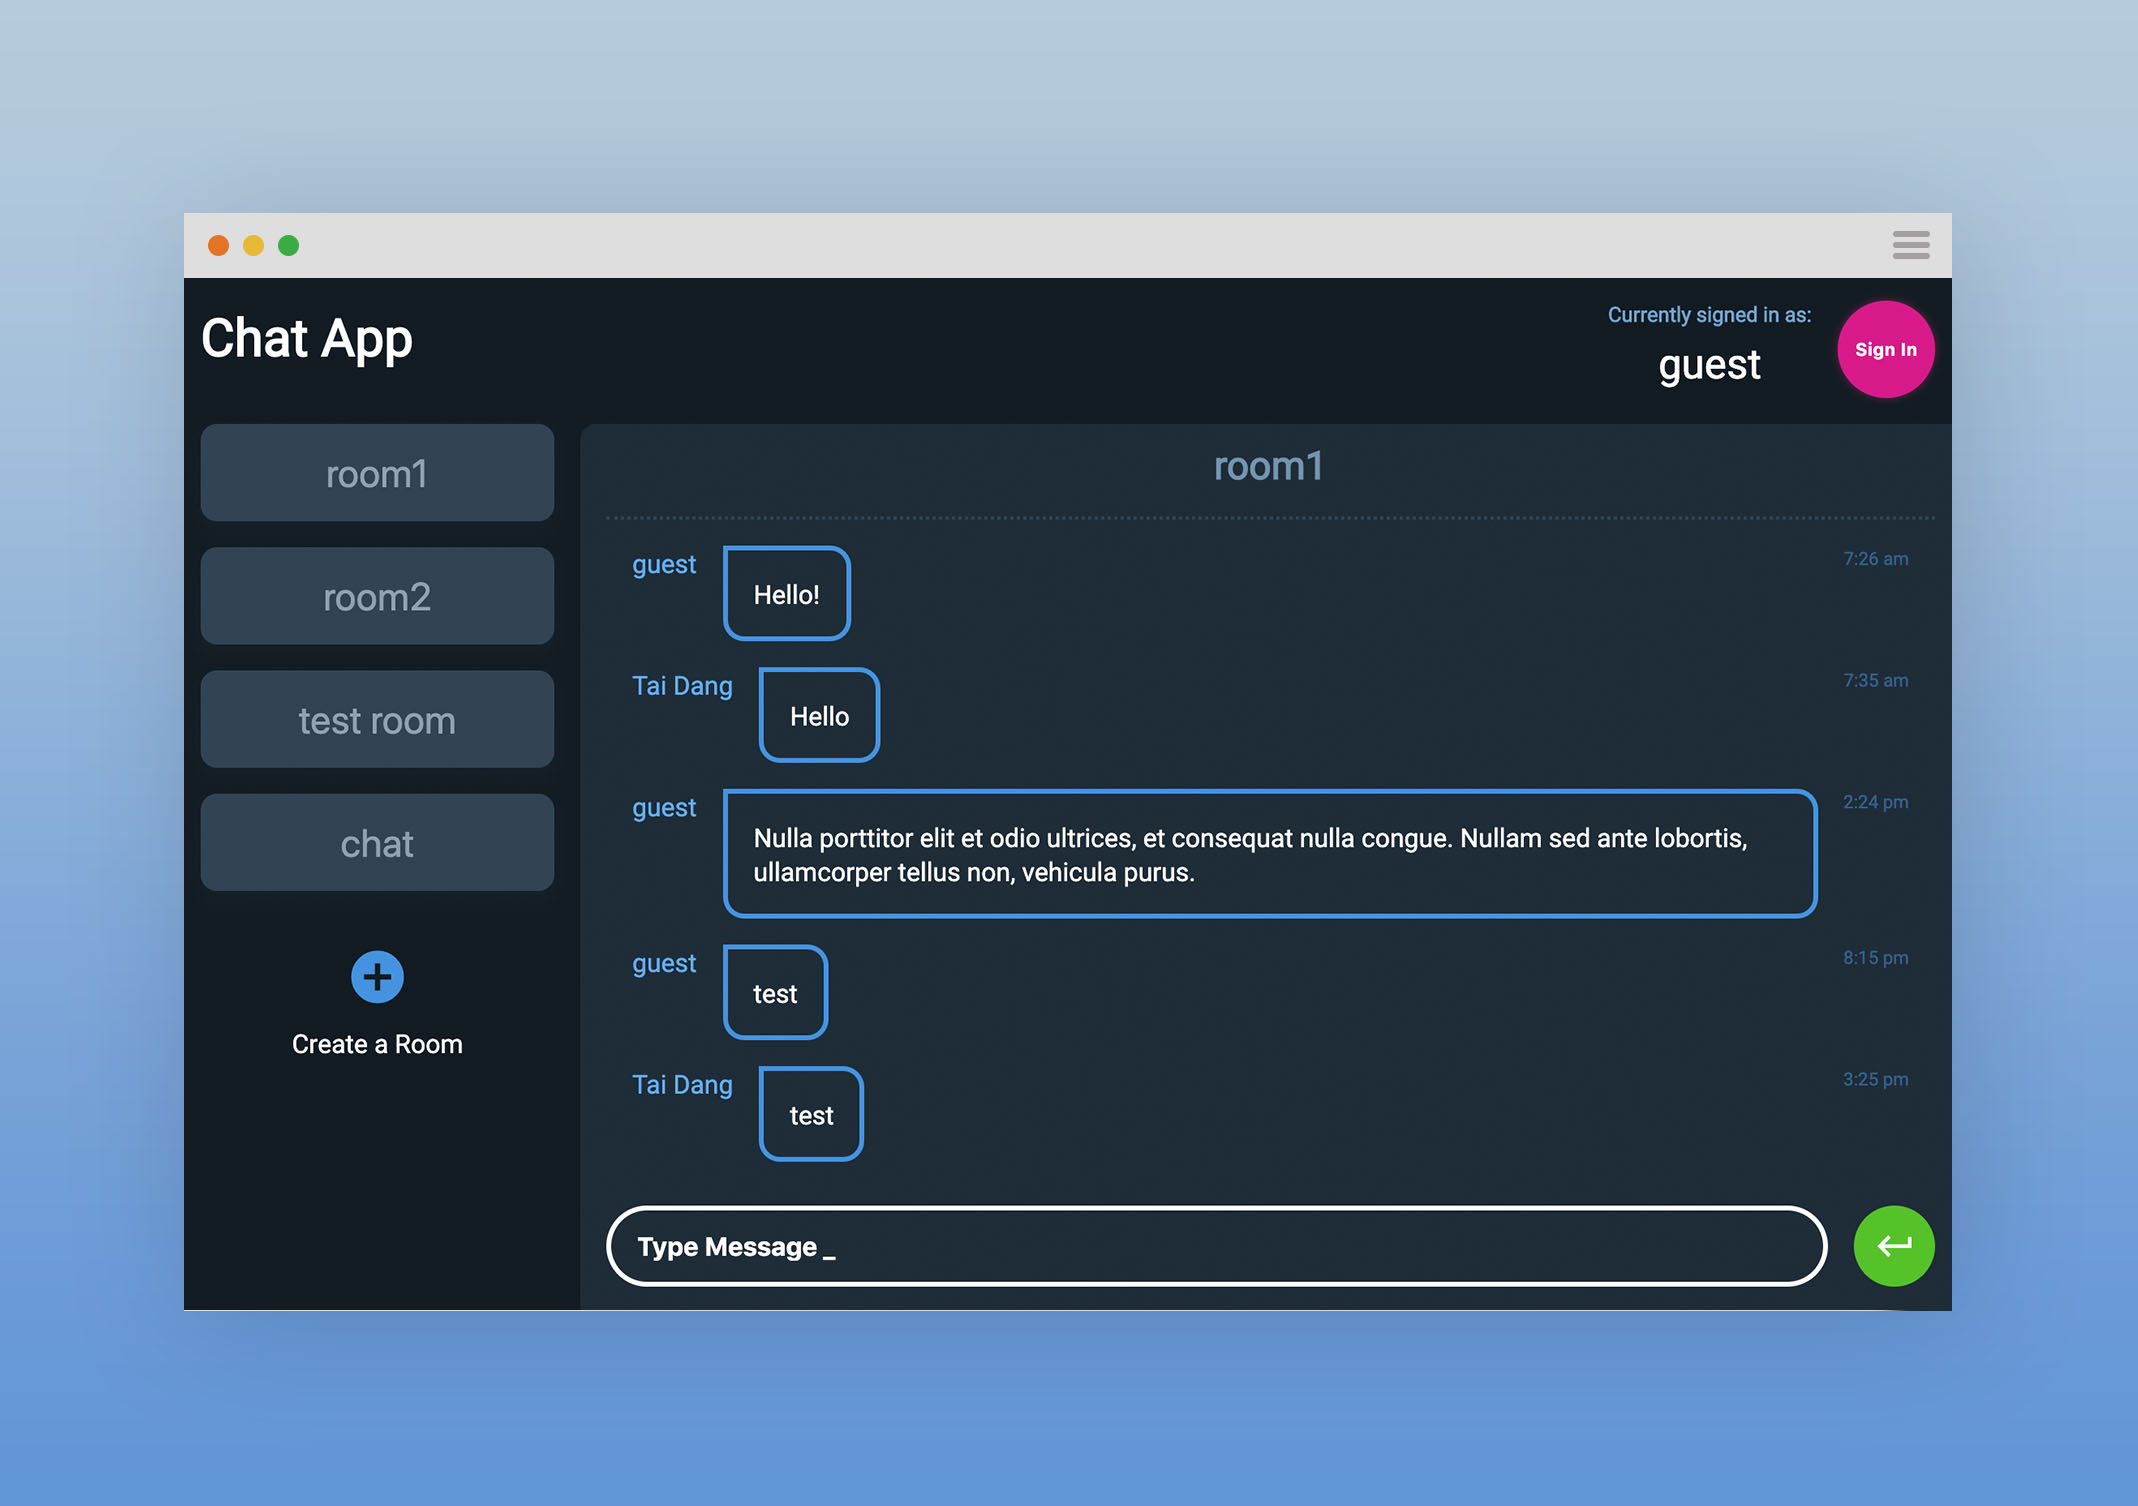
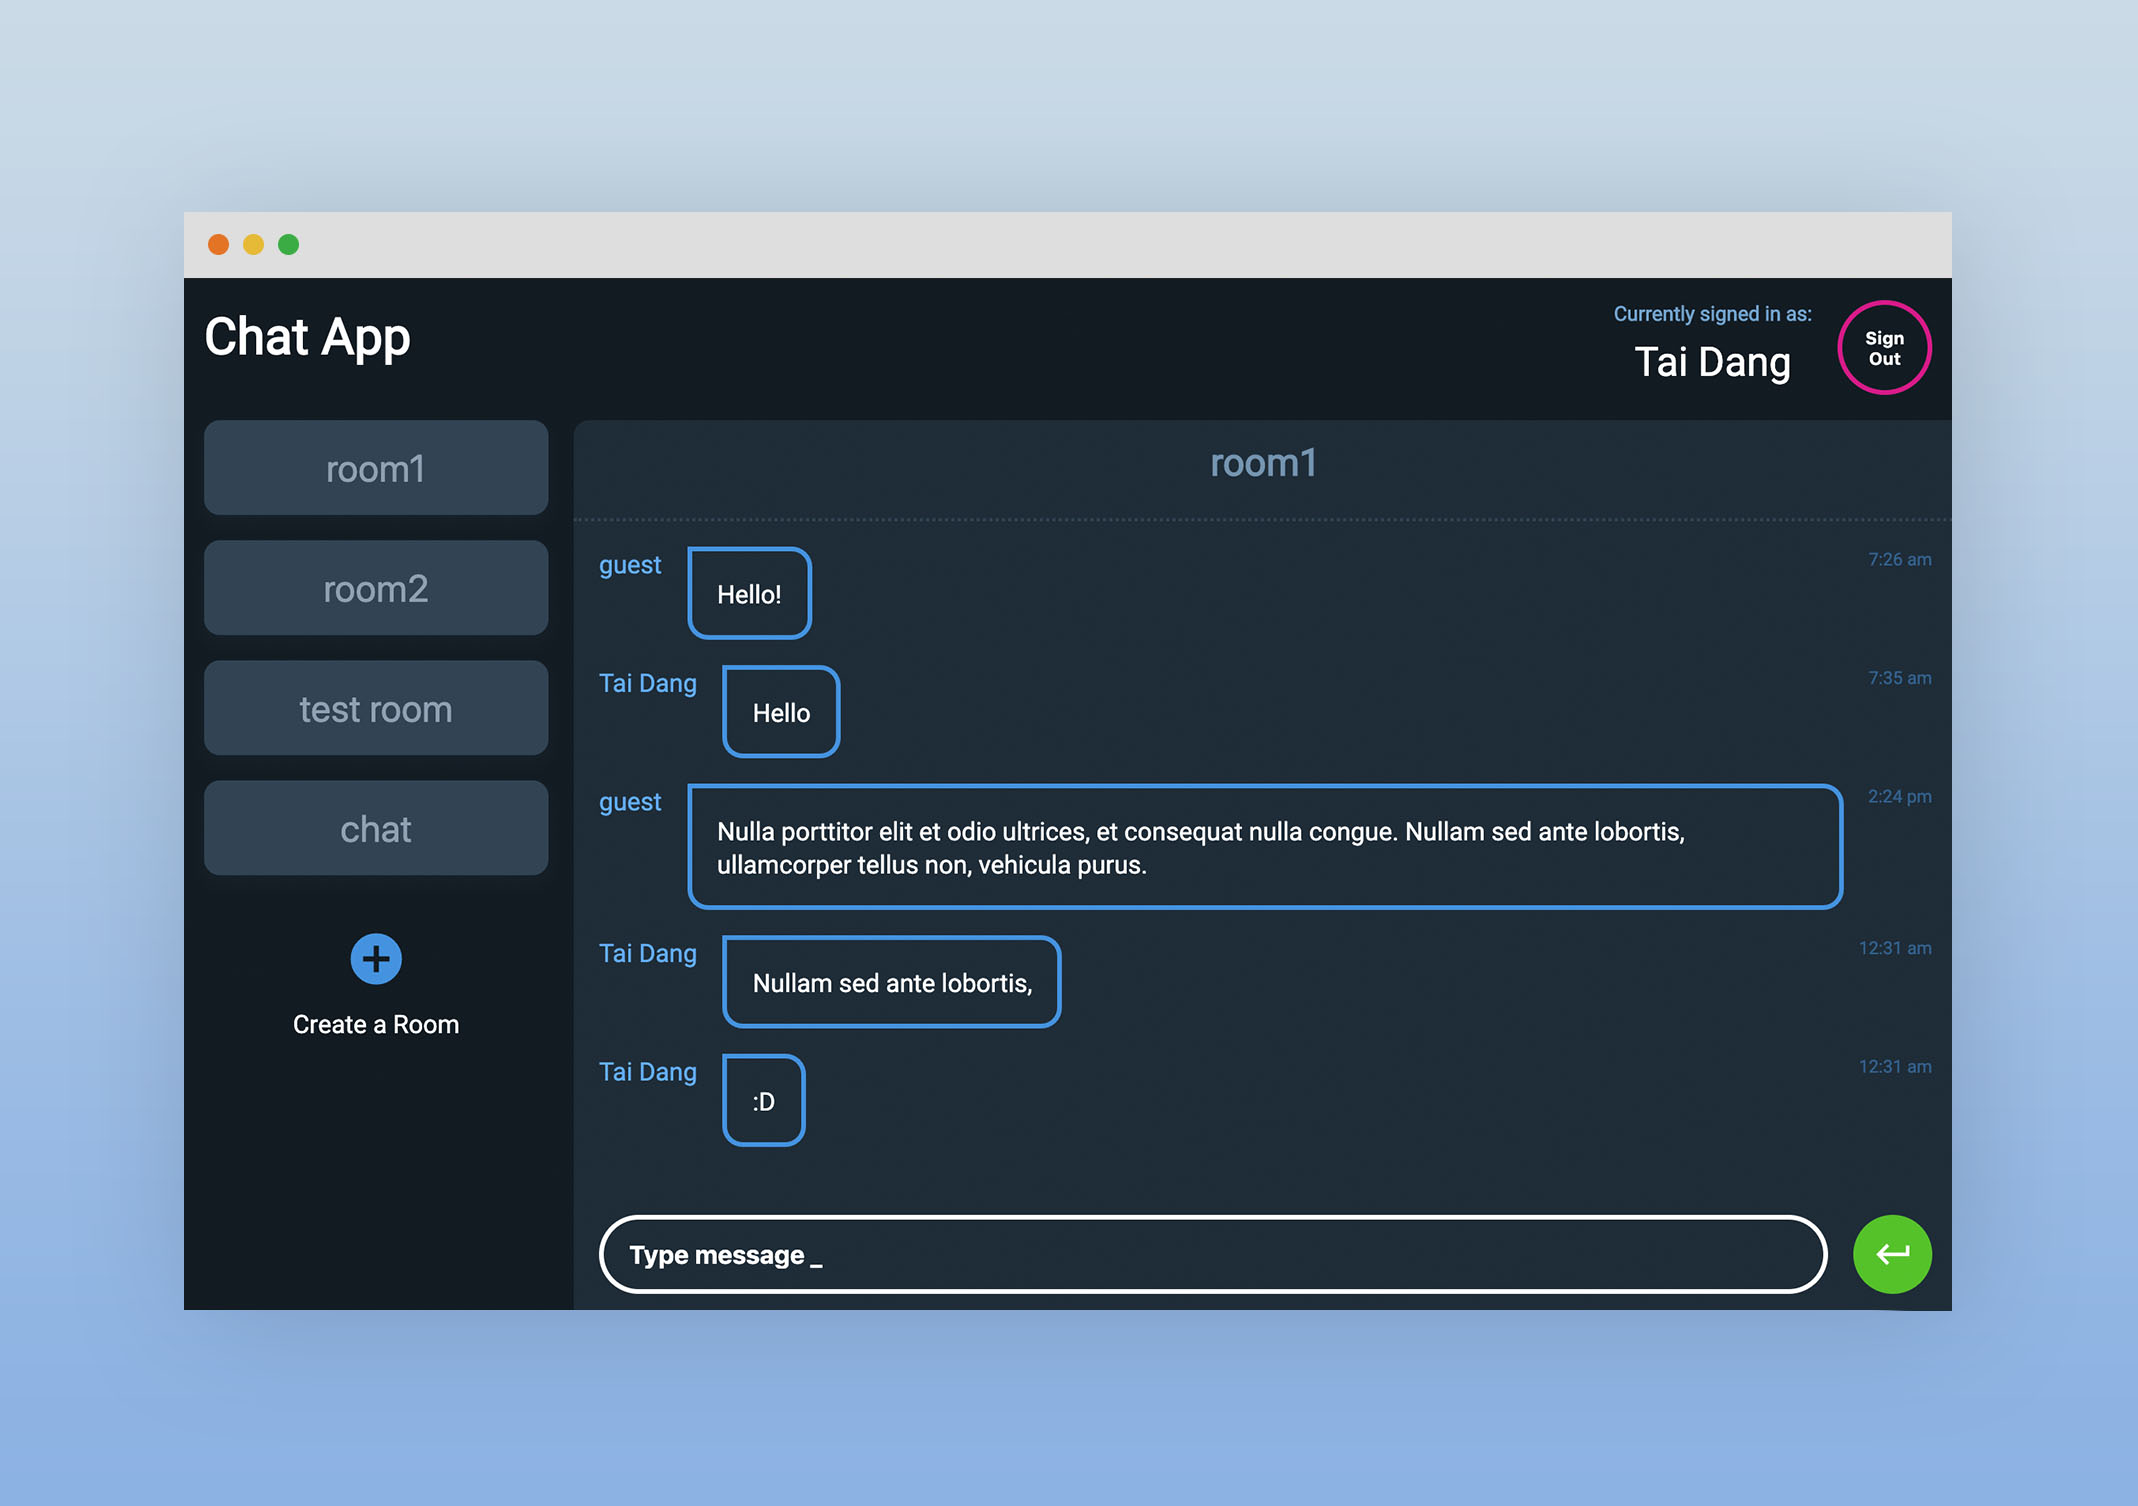
bug fixs / displayName state / intro messages / message input / css fix

diff --git a/src/components/MessageList.js b/src/components/MessageList.js
@@ -51,21 +51,22 @@ class MessageList extends Component {
   createMessage(event) {
     event.preventDefault();
 
-    this.messagesRef.push({
-      username: this.props.user.displayName,
-      content: this.state.newMessage,
-      sentAt: this.props.firebase.database.ServerValue.TIMESTAMP,
-      roomId: this.props.triggerAppRoomMessages
-    });
-    let scrolltoElement = document.getElementById("messagelist-scrollto");
-    scrolltoElement.scrollIntoView();
+    if (this.state.newMessage === "") {
+      console.log("need a value");
+    } else {
+      this.messagesRef.push({
+        username: this.props.user.displayName,
+        content: this.state.newMessage,
+        sentAt: this.props.firebase.database.ServerValue.TIMESTAMP,
+        roomId: this.props.triggerAppRoomMessages
+      });
+      let scrolltoElement = document.getElementById("messagelist-scrollto");
+      scrolltoElement.scrollIntoView();
 
-    document.getElementById("messagelist-input-form").reset();
+      this.setState({ newMessage: "" });
+      document.getElementById("messagelist-input-form").reset();
+    }
   }
-
-  // gotoBottom() {
-  //   document.getElementsByClassName('messagelist-content-scroll').scrollIntoView({behavior: "instant", block: "end", inline: "nearest"});
-  //   }
 
   onFocusCreateMessage() {
     this.setState({ placeholderMsg: "" });
@@ -81,6 +82,33 @@ class MessageList extends Component {
         <div className="messagelist-wrapper">
           <div className="messagelist-content-scroll">
             <h2>{this.setMessages()}</h2>
+
+            {this.props.triggerAppRoomMessages === "Welcome!" && (
+              <div className="home-content">
+                <p>
+                  This is a simple React based chat app using firebase. To the
+                  left are existing rooms and an option to create a new room.
+                </p>
+                <p>
+                  You are initially logged in as 'guest' and the chat dialogue
+                  will reflect this. The 'sign-in' button will popup a new
+                  page(tab) allowing you to authenticate via Google Sign-In,
+                  thus rendering a personal display name.
+                </p>
+                <p>
+                  Please{" "}
+                  <a
+                    href="http://dangarts.com"
+                    target="_blank"
+                    rel="noopener noreferrer"
+                    title="Contact Tai Dang"
+                  >
+                    contact
+                  </a>{" "}
+                  me if you're experiencing any issues.
+                </p>
+              </div>
+            )}
 
             {this.state.messages
               .filter(message => message.roomId === this.setMessages())
@@ -100,27 +128,28 @@ class MessageList extends Component {
           </div>
         </div>
 
-        <div className="messagelist-input">
-          <form
-            onSubmit={event => this.createMessage(event)}
-            id="messagelist-input-form"
-          >
-            {/* <label htmlFor="messageInput" /> */}
-            <input
-              onChange={event => this.newMessageChanged(event)}
-              id="messageInput"
-              name="messageInput"
-              placeholder={this.state.placeholderMsg}
-              onFocus={this.onFocusCreateMessage.bind(this)}
-              onBlur={this.onBlurCreateMessage.bind(this)}
-              autoComplete="off"
-            />
+        {this.props.triggerAppRoomMessages !== "Welcome!" && (
+          <div className="messagelist-input">
+            <form
+              onSubmit={event => this.createMessage(event)}
+              id="messagelist-input-form"
+            >
+              <input
+                onChange={event => this.newMessageChanged(event)}
+                id="messageInput"
+                name="messageInput"
+                placeholder={this.state.placeholderMsg}
+                onFocus={this.onFocusCreateMessage.bind(this)}
+                onBlur={this.onBlurCreateMessage.bind(this)}
+                autoComplete="off"
+              />
 
-            <button type="submit">
-              <span className="icon ion-md-return-left" />
-            </button>
-          </form>
-        </div>
+              <button type="submit">
+                <span className="icon ion-md-return-left" />
+              </button>
+            </form>
+          </div>
+        )}
       </div>
     );
   }

diff --git a/src/components/RoomList.js b/src/components/RoomList.js
@@ -28,9 +28,15 @@ class RoomList extends Component {
   createRoom(event) {
     event.preventDefault();
 
-    this.roomsRef.push({
-      name: this.state.newChatRoom
-    });
+    if (this.state.newChatRoom === "") {
+      console.log("need a value");
+    } else {
+      this.roomsRef.push({
+        name: this.state.newChatRoom
+      });
+
+      this.setState({ newChatRoom: "" });
+    }
 
     //reset form
     document.getElementById("new-chat-room-form").reset();
@@ -41,7 +47,9 @@ class RoomList extends Component {
 
   onHandleRoomSet(newRoom) {
     this.props.triggerAppRoomSet(newRoom.name);
-     document.getElementsByClassName("messagelist-input")[0].style.display="block";
+    // console.log(document.getElementsByClassName("messagelist-input")[0]);
+    // document.getElementsByClassName("messagelist-input")[0].style.display =
+    //   "block";
   }
 
   onFocusCreateRoom() {
@@ -54,7 +62,7 @@ class RoomList extends Component {
 
   handleDisplayRoomForm(e) {
     //console.log("test");
-    
+
     document.getElementById("utility-form-area").style.display = "none";
     document.getElementById("new-chat-room-form").style.display = "block";
     document.getElementById("add-room-button").style.display = "none";
@@ -63,8 +71,6 @@ class RoomList extends Component {
   render(props) {
     return (
       <div className="component-roomlist">
-        
-
         <div className="available-room-list">
           {this.state.rooms.map((room, index) => (
             <button onClick={e => this.onHandleRoomSet(room, e)} key={index}>

diff --git a/src/components/User.js b/src/components/User.js
@@ -17,23 +17,26 @@ class User extends Component {
   signInWithPopup() {
     const provider = new this.props.firebase.auth.GoogleAuthProvider();
     this.props.firebase.auth().signInWithPopup(provider);
-    document.getElementsByClassName("button-sign-out")[0].style.display = "none";
-    document.getElementsByClassName("button-sign-out")[0].style.display = "block";
   }
 
   signOut() {
     this.props.firebase.auth().signOut();
-    document.getElementsByClassName("button-sign-out")[0].style.display = "block";
-    document.getElementsByClassName("button-sign-out")[0].style.display = "none";
   }
 
   render(props) {
     return (
       <div className="component-user">
-        <button className="button-sign-in" onClick={this.signInWithPopup.bind(this)}>Sign In</button>
-        <button className="button-sign-out" onClick={this.signOut.bind(this)}>Sign Out</button>
-        <div className="display-name-intro" >Currently signed in as:</div>
-        <div className="display-name" >{this.props.user.displayName}</div>
+        <button
+          className="button-sign-in"
+          onClick={this.signInWithPopup.bind(this)}
+        >
+          Sign In
+        </button>
+        <button className="button-sign-out" onClick={this.signOut.bind(this)}>
+          Sign Out
+        </button>
+        <div className="display-name-intro">Currently signed in as:</div>
+        <div className="display-name">{this.props.user.displayName}</div>
         {/* {console.log(this.props)} */}
       </div>
     );

diff --git a/public/index.html b/public/index.html
@@ -1,16 +1,22 @@
 <!DOCTYPE html>
 <html lang="en">
   <head>
-    <meta charset="utf-8">
-    <link rel="shortcut icon" href="%PUBLIC_URL%/favicon.ico">
-    <meta name="viewport" content="width=device-width, initial-scale=1, shrink-to-fit=no">
-    <link href="https://unpkg.com/ionicons@4.4.6/dist/css/ionicons.min.css" rel="stylesheet">
-    <meta name="theme-color" content="#000000">
+    <meta charset="utf-8" />
+    <link rel="shortcut icon" href="%PUBLIC_URL%/favicon.ico" />
+    <meta
+      name="viewport"
+      content="width=device-width, initial-scale=1, shrink-to-fit=no"
+    />
+    <link
+      href="https://unpkg.com/ionicons@4.4.6/dist/css/ionicons.min.css"
+      rel="stylesheet"
+    />
+    <meta name="theme-color" content="#000000" />
     <!--
       manifest.json provides metadata used when your web app is added to the
       homescreen on Android. See https://developers.google.com/web/fundamentals/web-app-manifest/
     -->
-    <link rel="manifest" href="%PUBLIC_URL%/manifest.json">
+    <link rel="manifest" href="%PUBLIC_URL%/manifest.json" />
     <!--
       Notice the use of %PUBLIC_URL% in the tags above.
       It will be replaced with the URL of the `public` folder during the build.
@@ -20,7 +26,7 @@
       work correctly both with client-side routing and a non-root public URL.
       Learn how to configure a non-root public URL by running `npm run build`.
     -->
-    <title>React App</title>
+    <title>Chat App</title>
   </head>
   <body>
     <noscript>

diff --git a/src/css/index.scss b/src/css/index.scss
@@ -25,9 +25,20 @@ body {
   }
 }
 
+.home-content {
+  padding: 40px;
+  p {
+    padding-bottom: 20px;
+    font-size: 1.4rem;
+    color: rgba(255, 255, 255, 0.767);
+    line-height: 2rem;
+  }
+  box-sizing: border-box;
+}
+
 /* ROOM LIST ************************************************** */
 .component-roomlist {
-  /* background: #131b23; */
+  background: #131b23;
   grid-column: 1 / span 1;
   grid-row: 2 / span 1;
   padding: 1rem;
@@ -128,11 +139,19 @@ body {
   display: grid;
   grid-template-rows: 1fr min-content;
   border-top-left-radius: 10px;
+  a {
+    color: #da0a8a;
+    text-decoration: none;
+    border-bottom: 3px dotted white;
+    &:hover {
+      color: #ff1aa7;
+    }
+  }
   h2 {
     color: rgb(115, 147, 177);
     text-align: center;
     border-bottom: 2px dotted rgb(47, 66, 83);
-    padding: 1rem;
+    padding: 20px;
   }
   .messagelist-wrapper {
     grid-row: 1 / span 1;
@@ -140,12 +159,12 @@ body {
     // min-height: 4em;
     .messagelist-content-scroll {
       position: absolute;
-      padding: 1rem;
+      // padding: 1rem;
       max-height: 100%;
       overflow: auto;
       width: 100%;
       #messagelist-scrollto {
-        height: 50px;
+        height: 70px;
         width: 100%;
         // background-color: red;
       }

diff --git a/src/App.js b/src/App.js
@@ -23,7 +23,7 @@ class App extends Component {
   constructor(props) {
     super(props);
     this.state = {
-      activeRoom: "Select a Room",
+      activeRoom: "Welcome!",
       user: { displayName: "guest" }
     };
   }
@@ -33,11 +33,25 @@ class App extends Component {
   }
 
   setUser(user) {
-    if (user) {
-      this.setState({ user });
-    } else {
+    if (user === null) {
       this.setState({ user: { displayName: "guest" } });
+      document.getElementsByClassName("button-sign-in")[0].style.display =
+        "block";
+      document.getElementsByClassName("button-sign-out")[0].style.display =
+        "none";
+    } else {
+      this.setState({ user });
+      document.getElementsByClassName("button-sign-in")[0].style.display =
+        "none";
+      document.getElementsByClassName("button-sign-out")[0].style.display =
+        "block";
     }
+
+    // if (user) {
+    //   this.setState({ user });
+    // } else {
+    //   this.setState({ user: { displayName: "guest" } });
+    // }
 
     //console.log(this.state.user.displayName)
   }

diff --git a/README.md b/README.md
@@ -42,18 +42,17 @@ You will also see any lint errors in the console.
 
 ## Features
 
-- Room creation
-- Room display
-- Chat room dialogue
-- Chat creation
-- User authentication
+- User Authentication via Firebase
+- Display list of available chat rooms
+- Create chat rooms
+- Display list of messages of each chat room
+- Set username to display in chat rooms
+- Send messages associated with my username in a chat room
 
 ## Todo
 
-- Admin user policy
-- Room deletion by owner or admin
-- Chat deletion by admin
-- For Demo Purpose / reset firebase DB
+- Room deletion by owner
+- For Demo Purpose / reset firebase DB every day
 
 ## Status
 
